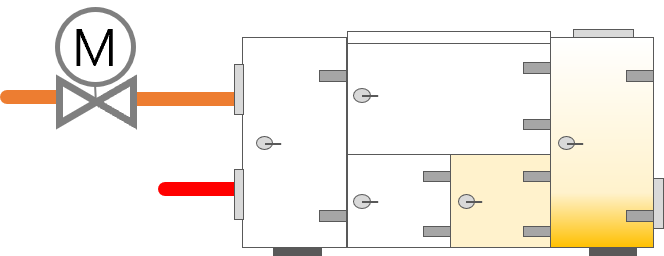
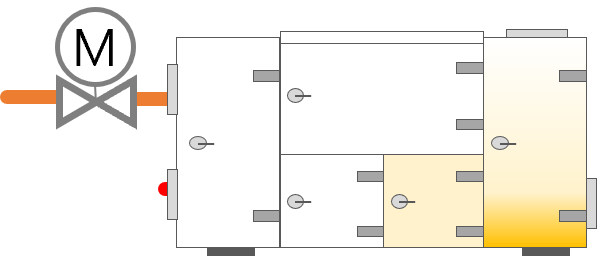
난방공급설비이미지수정, 공조형공급설비리스트 작성 수정

diff --git a/main/contents/System/HeatingSystem.cs b/main/contents/System/HeatingSystem.cs
@@ -2755,6 +2755,7 @@ namespace main.contents
                 {
                     roomauto1_label.Visible = true;
                     roomauto1_ComboBox.Visible = true;
+                    roomauto1_ComboBox.Items.Clear();
                     string[][] Value = Program.DB.getValue(DB.type.BaseDB_Heating, "공급설비온도차", "제어유형", "구분 = '" + ce1Type + "' And 온도차 = 'Dtheta_roomaut'");
                     if (Value.Length > 0)
                     {
@@ -2788,6 +2789,7 @@ namespace main.contents
                 {
                     roomauto2_label.Visible = true;
                     roomauto2_ComboBox.Visible = true;
+                    roomauto2_ComboBox.Items.Clear();
                     string[][] Value = Program.DB.getValue(DB.type.BaseDB_Heating, "공급설비온도차", "제어유형", "구분 = '" + ce2Type + "' And 온도차 = 'Dtheta_roomaut'");
                     if (Value.Length > 0)
                     {
@@ -3287,16 +3289,16 @@ namespace main.contents
                 if (_type == ce1Type)
                 {
                     ce1_pictureBox.Visible = true;
-                    ce1_pictureBox.Location = new Point(712, 38);
-                    ce1_pictureBox.Size = new System.Drawing.Size(190, 80);
+                    ce1_pictureBox.Location = new Point(711, 38);
+                    ce1_pictureBox.Size = new System.Drawing.Size(182, 80);
                     ce1_pictureBox.Load(Program.gPath + image[0][0]);
                     ce1_pictureBox.SizeMode = PictureBoxSizeMode.Zoom;
                 }
                 else if (_type == ce2Type)
                 {
                     ce2_pictureBox.Visible = true;
-                    ce2_pictureBox.Location = new Point(712, 118);
-                    ce2_pictureBox.Size = new System.Drawing.Size(190, 80);
+                    ce2_pictureBox.Location = new Point(711, 118);
+                    ce2_pictureBox.Size = new System.Drawing.Size(182, 80);
                     ce2_pictureBox.Load(Program.gPath + image[0][0]);
                     ce2_pictureBox.SizeMode = PictureBoxSizeMode.Zoom;
                 }

diff --git a/main/subcontents/HeatingSystem/Heating_ceZone.cs b/main/subcontents/HeatingSystem/Heating_ceZone.cs
@@ -44,7 +44,10 @@ namespace main.subcontents.HeatingSystem
                 for (int i = 0; i < SelectAHU_split.Count; i++)
                 {
                     string[][] 존 = Program.DB.getValue(DB.type.ProjDB, "ZoneGeneral_Form", "존번호", "선택열회수기 = '" + SelectAHU_split[i] + "'");
-                    SelectZone_split.Add(존[0][0].ToString());
+                    for(int j =0; j < 존.Length; j++)
+                    {
+                        SelectZone_split.Add(존[j][0].ToString());
+                    }
                 }
             }
             else //실내난방인경우
